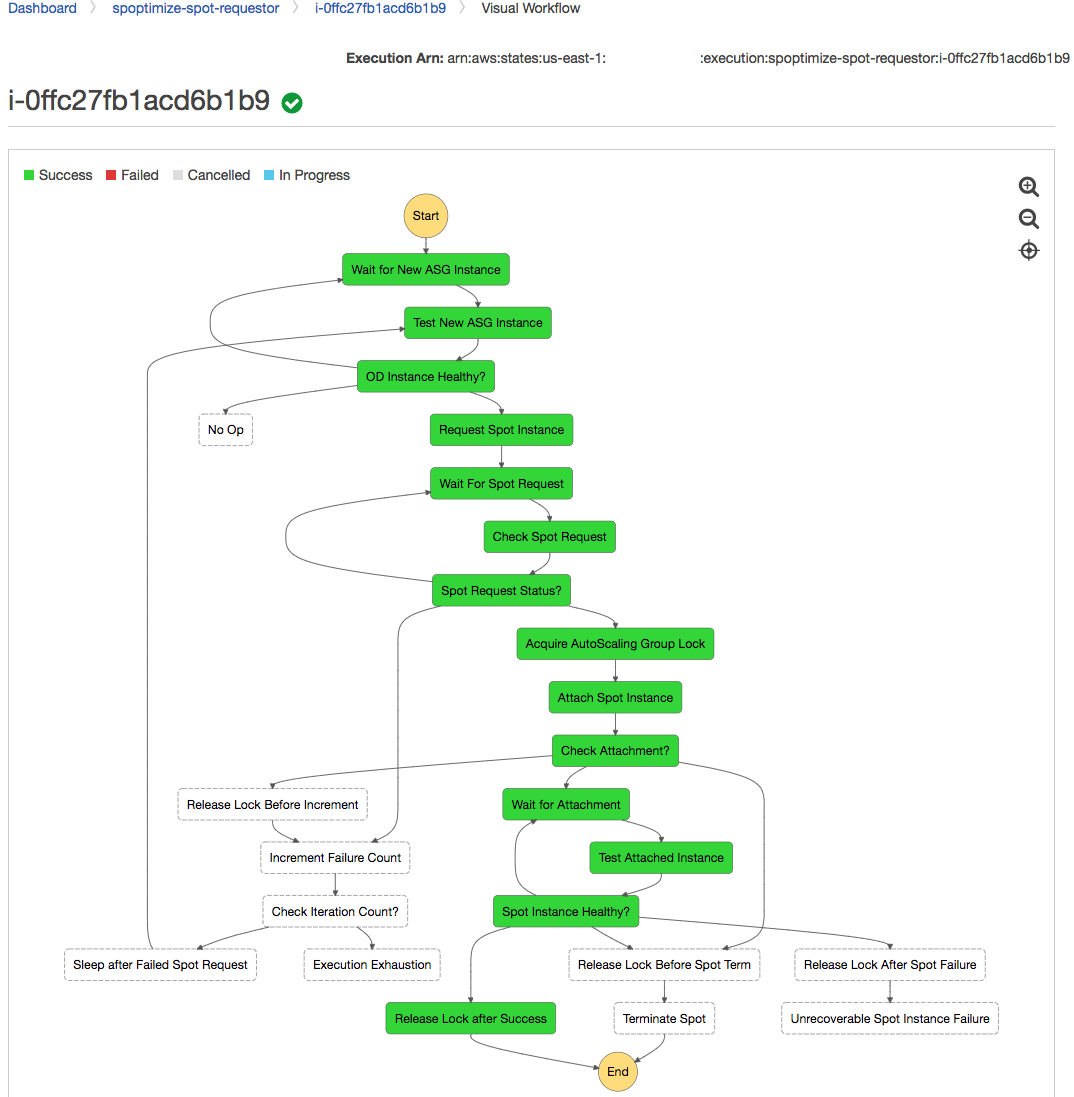
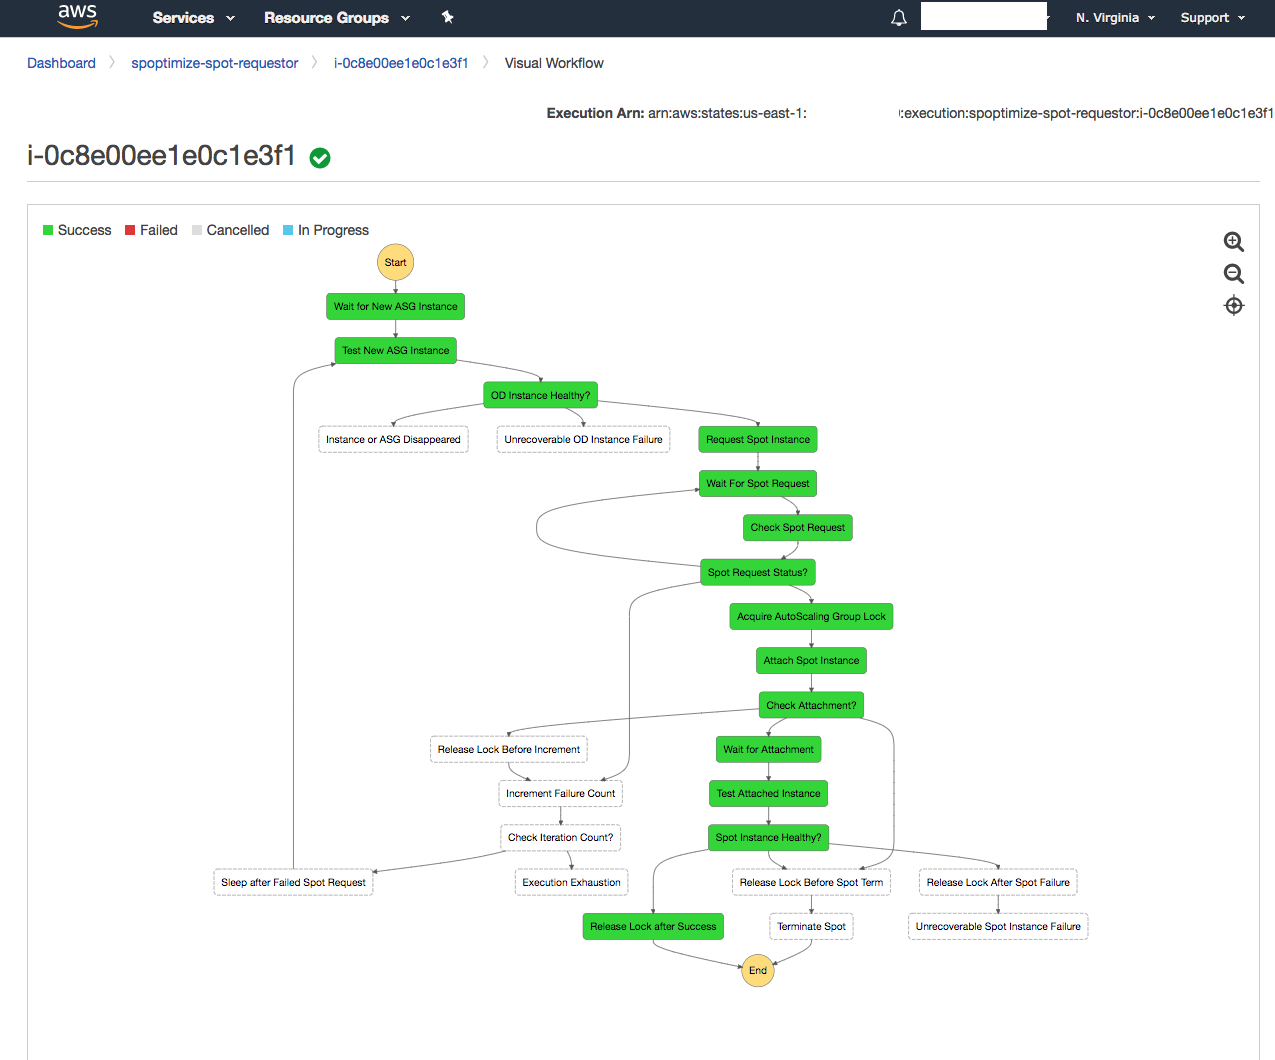
Don't loop after checking ASG instance health
Assuming the initial wait is long enough (ie: more than the
HealthCheckGracePeriod), the auto-scaling group will term an unhealthy
instance.

diff --git a/spoptimize/test_stepfns.py b/spoptimize/test_stepfns.py
@@ -65,15 +65,15 @@ class TestInitMachineState(unittest.TestCase):
         expected_state = state_machine_init.copy()
         expected_state['autoscaling_group'] = self.asg_dict.copy()
         expected_state['init_sleep_interval'] = int(
-            self.asg_dict['HealthCheckGracePeriod'] * (2 + self.asg_dict['DesiredCapacity'] + random.random())
+            (self.asg_dict['HealthCheckGracePeriod'] * self.asg_dict['DesiredCapacity']) + (60 * random.random()) + 30
         )
 
-        expected_state['spot_attach_sleep_interval'] = int(self.asg_dict['HealthCheckGracePeriod'] * 2)
+        expected_state['spot_attach_sleep_interval'] = int(self.asg_dict['HealthCheckGracePeriod'] + 30)
         random.seed(randseed)
         (state_machine_dict, msg) = stepfns.init_machine_state(launch_notification)
         self.assertDictEqual(state_machine_dict, expected_state)
         self.assertGreater(state_machine_dict['init_sleep_interval'],
-                           self.asg_dict['HealthCheckGracePeriod'] * (2 + self.asg_dict['DesiredCapacity']))
+                           self.asg_dict['HealthCheckGracePeriod'] * self.asg_dict['DesiredCapacity'])
         self.assertIsNone(msg)
 
     def test_unknown_notification(self):

diff --git a/handler.py b/handler.py
@@ -14,6 +14,10 @@ logger.setLevel(logging.INFO)
 sfn = boto3.client('stepfunctions')
 
 
+class InstancePending(Exception):
+    pass
+
+
 class GroupLocked(Exception):
     pass
 
@@ -56,6 +60,8 @@ def handler(event, context):
     # Test New ASG Instance
     elif action == 'ondemand-instance-healthy':
         retval = stepfns.asg_instance_state(event['autoscaling_group'], event['ondemand_instance_id'])
+        if retval == 'Pending':
+            raise InstancePending('{} is not online and/or healthy'.format(event['ondemand_instance_id']))
 
     # Request Spot Instance
     elif action == 'request-spot':
@@ -105,6 +111,8 @@ def handler(event, context):
     # Test Attached Instance
     elif action == 'spot-instance-healthy':
         retval = stepfns.asg_instance_state(event['autoscaling_group'], event['spot_request_result'])
+        if retval == 'Pending':
+            raise InstancePending('{} is not online and/or healthy'.format(event['spot_request_result']))
 
     else:
         raise Exception('SPOPTIMIZE_ACTION env var specifies unknown action: {}'.format(action))

diff --git a/spoptimize/stepfns.py b/spoptimize/stepfns.py
@@ -60,10 +60,10 @@ def init_machine_state(sns_message):
     spoptimize_tags = get_spoptimize_tags(asg.get('Tags', []))
     init_sleep_interval = spoptimize_tags.get(
         'init_sleep_interval',
-        asg['HealthCheckGracePeriod'] * (2 + asg['DesiredCapacity'] + random())
+        (asg['HealthCheckGracePeriod'] * asg['DesiredCapacity']) + (60 * random()) + 30
     )
     spot_req_sleep_interval = spoptimize_tags.get('spot_req_sleep_interval', 30)
-    spot_attach_sleep_interval = spoptimize_tags.get('spot_attach_sleep_interval', asg['HealthCheckGracePeriod'] * 2)
+    spot_attach_sleep_interval = spoptimize_tags.get('spot_attach_sleep_interval', asg['HealthCheckGracePeriod'] + 30)
     spot_failure_sleep_interval = spoptimize_tags.get('spot_failure_sleep_interval', 3600)
     logger.info('Initial wait interval {}s'.format(init_sleep_interval))
     logger.info('Spot request wait interval {}s'.format(spot_req_sleep_interval))

diff --git a/README.md b/README.md
@@ -103,11 +103,11 @@ Spoptimize's wait intervals may be overridden per AutoScaling via the use of tag
 
 - `spoptimize:init_sleep_interval`: Initial wait interval after launch notification is received. Spoptimize
   won't do anything during this wait period. **Defaults** to approximately the group's Health Check Grace
-  Period times (two plus the Desired Capacity). This is directly correlated to the capacity to allow for
+  Period times the Desired Capacity plus 30-90s. This is directly correlated to the capacity to allow for
   rolling updates to complete before any instances are replaced.
 - `spoptimize:spot_req_sleep_interval`: Wait interval following spot instance request. **Default** is 30s.
 - `spoptimize:spot_attach_sleep_interval`: Wait interval following attachment of spot instance to
-  autoscaling group. **Defaults** to 2 times the group's Health Check Grace Period.
+  autoscaling group. **Defaults** to the group's Health Check Grace Period plus 30s.
 - `spoptimize:spot_failure_sleep_interval`: Wait interval between iterations following a spot instance
   failure. **Defaults** to 1 hour. A spot failure may be a failed spot instance request or a failure of the
   spot instance after it comes online.
